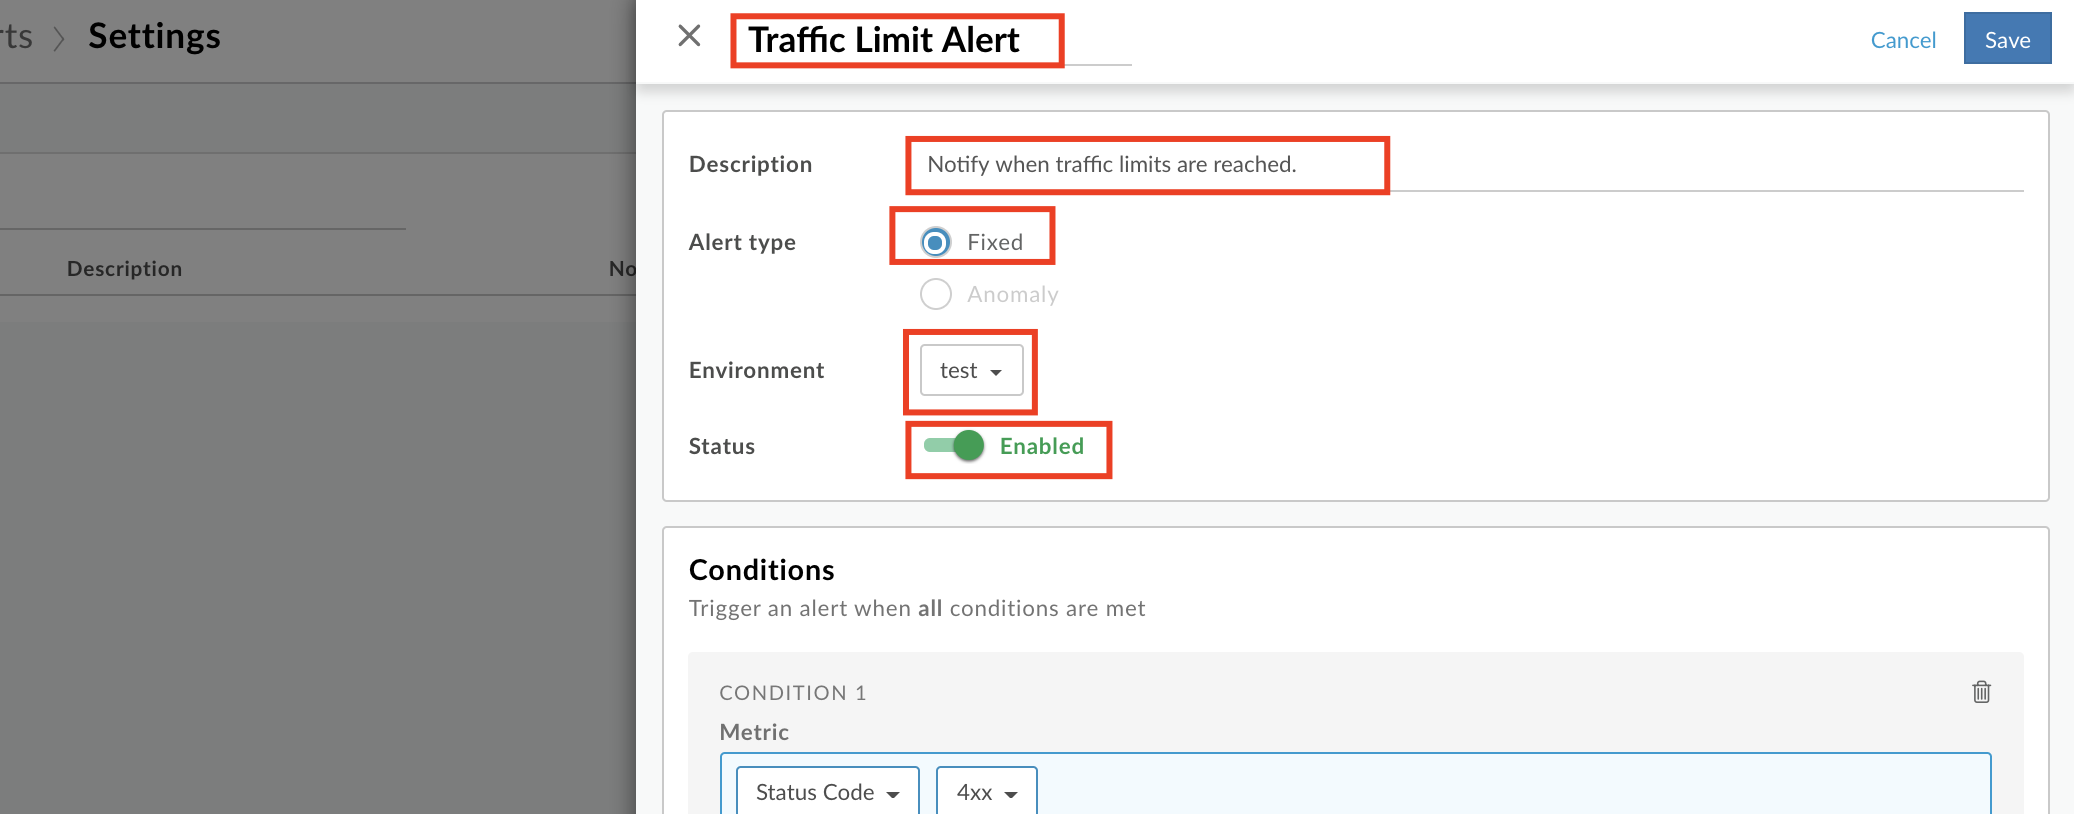
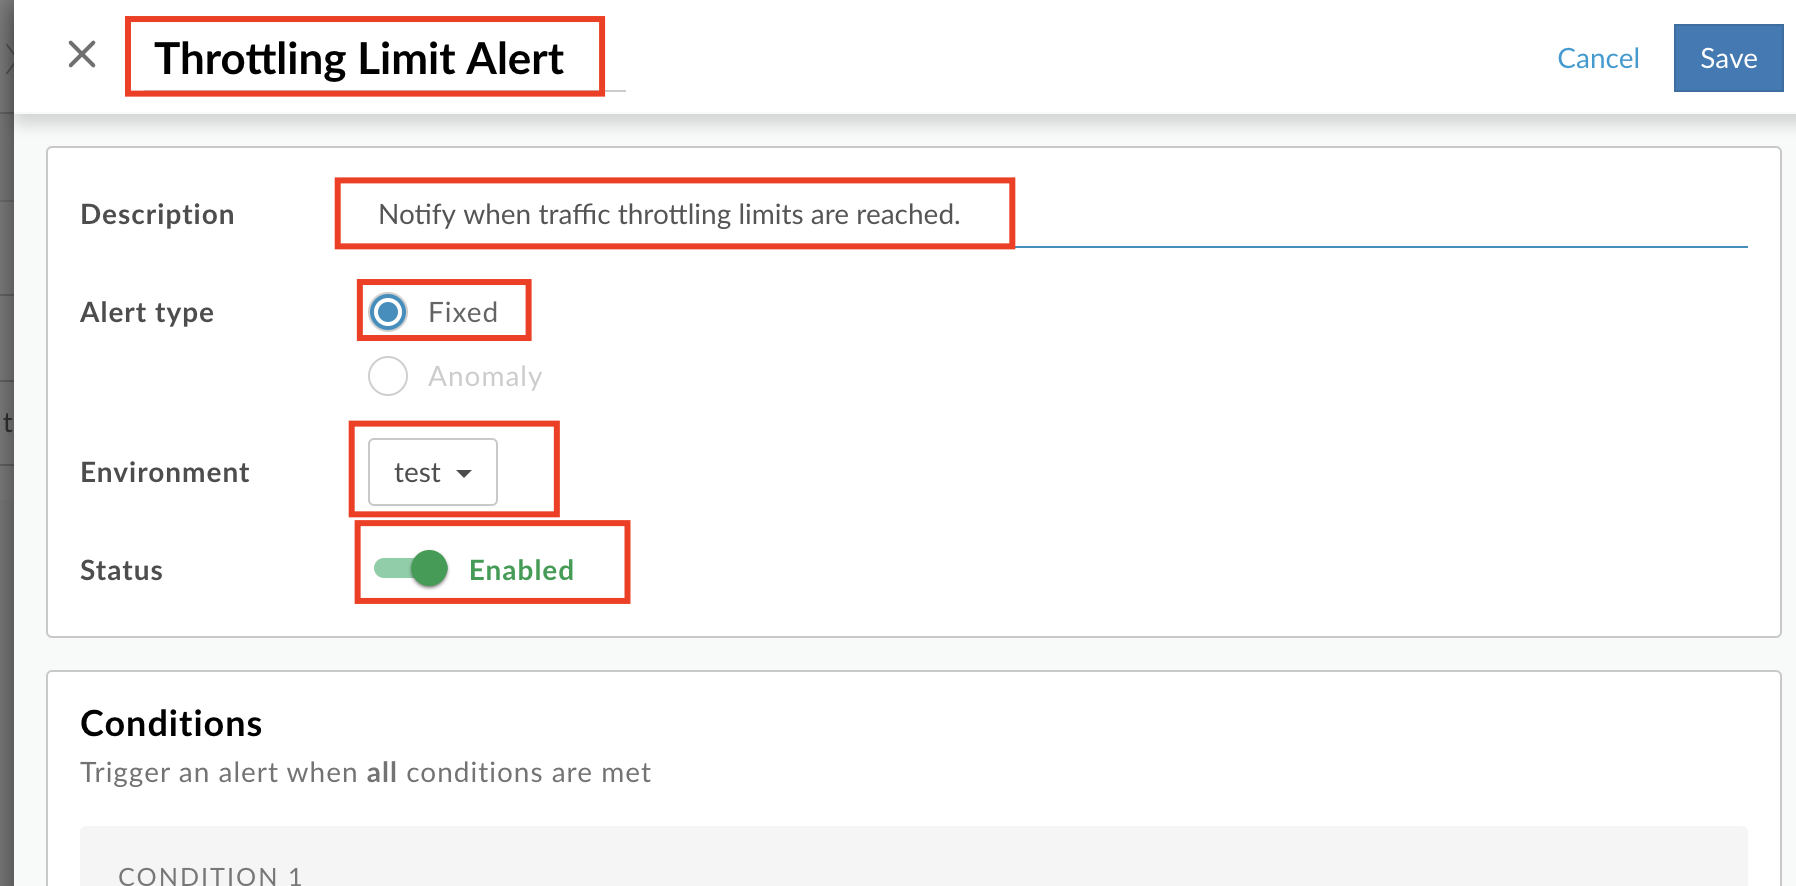
Changes to Module 4 Lab 2

diff --git a/Module-4/Labs/Lab 2/README.md b/Module-4/Labs/Lab 2/README.md
@@ -2,7 +2,7 @@
 
 *Duration : 10 mins*
 
-*Persona : API Team / Security*
+*Persona : API Team / Operations*
 
 # Use case
 
@@ -89,4 +89,60 @@ Let us now add rate limit alerts to this org and environment, to alert when the 
 
 ![image alt text](./media/AddAlertBtn.png)
 
-5. 
+5. Fill in the alert details as follows:
+
+* Alert Name: `Throttling Limit Alert`
+* Description: `Notify when traffic throttling limits are reached.`
+* Alert Type: `Fixed`
+* Environment: `test`
+* Status: `Enabled`
+
+![image alt text](./media/AddAlertOverview.png)
+
+* Conditions
+
+    * Metric: `Fault Code` `Traffic Mgmt Policy > Spike Arrest > SpikeArrest Violation`
+
+    * Threshold: `Count` is `greater than or equal to` `1` for `5 minutes`
+
+    * Dimension: `Proxy` `{{your initials}}_Hipster-Products-API` `Region` `Any`
+
+* Reports
+    * Check the "Create an API analytics report based on alert conditions" checkbox.
+
+* Alert notifications
+    * Channel: `Email`
+    * Destination: `{{your email address}}`
+
+![image alt text](./media/AlertCondReportNotfnThenSave.png)
+
+6. Click Save.
+
+## Test the Alert & Notifications
+
+1. Navigate to the API Proxy for which we are testing the alert generation, i.e. {{your initials}}\_Hipster-Products-API, and to the **Trace** tab. Then, click on the **"Start Trace Session"** green button, append `/products` to the URL and click **Send** multiple times in quick succession, so as to trigger Spike Arrest policy violations.
+
+![image alt text](./media/TraceSpikeArrestTriggered.png)
+
+2. After a minute or two, you can check your email mailbox and should notice an alert notification email generated by Apigee sent to you:
+
+![image alt text](./media/AlertEmailNotfn.png)
+
+3. Click the **View Details** button. This will open a browser window with your API Monitoring dashboard and the alert details (provided that you are logged into Apigee Edge). Navigate the various options on this dashboard to understand the reason for alert, past alert data, etc.
+
+![image alt text](./media/AlertCustomReport.png)
+
+Congratulations! You have successfully configured the platform to trigger Alerts and Notifications, based on different API metrics, thresholds and dimensions monitored.
+
+### Lab Video
+[API Monitoring Demo Video](https://youtu.be/9Zu37N2DOj8)
+
+### Earn Extra Points
+Create similar alert configurtions for OAuth Access Token invalidation scenarios, such that the platform will send Security personnel email alert notifications when invalid access tokens are sent for more than 50% of all API traffic (across all API Proxies), in a 1 hour window.
+For a valid API Proxy to test this alert you can create and deploy a proxy per the instructions under [Module 2a Lab 2 - Securing APIs with two-legged OAuth](../../../Module-2a/Labs/Lab%202).
+
+### Summary
+This lab demonstrates how to use the Apigee API Monitoring feature to monitor API traffic and set up automated alerts against the monitored metrics, thresholds and dimensions.
+
+### References
+[Apigee API Monitoring documentation](https://docs.apigee.com/api-monitoring)
